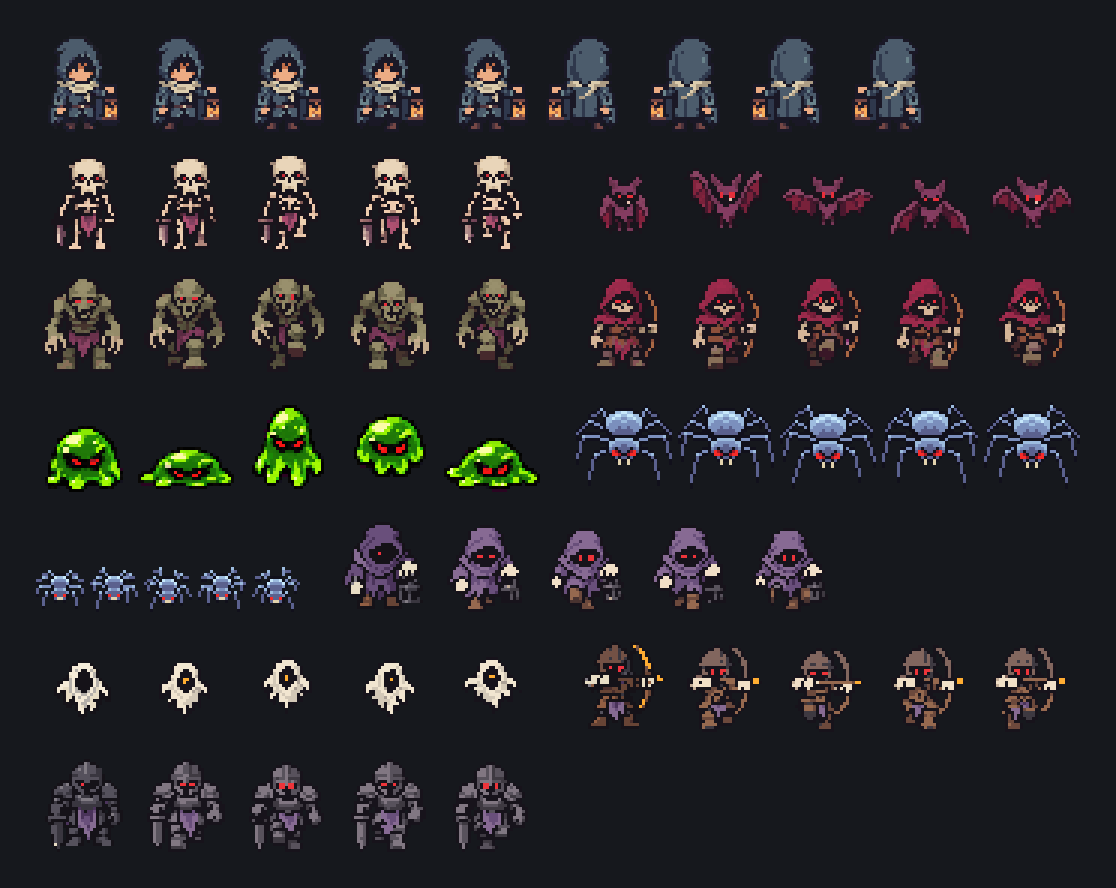
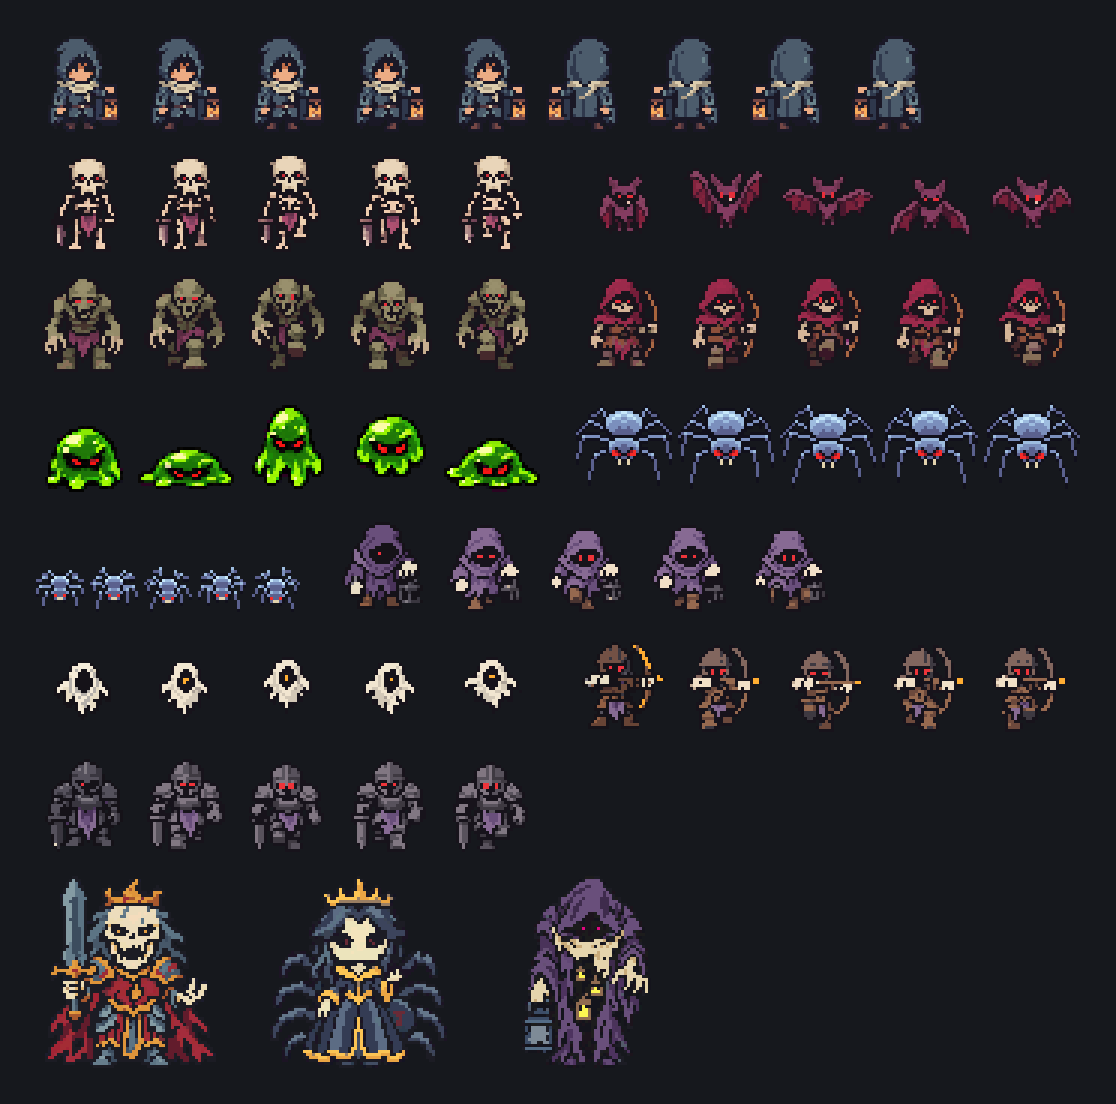
content: 등불지기 정보에 강화 9종·마력·기본 공격 용어 반영, 에셋 칸에 보스·소환수·화면 UI 추가

diff --git a/scripts/make-gallery.py b/scripts/make-gallery.py
@@ -7,10 +7,12 @@
 
 하는 일
   - 그림 폴더(하위 폴더 포함)의 png를 파일 이름 앞머리로 나눠 모음 그림 4장을 만든다.
-      char_·enemy_           → gallery_characters.webp  (캐릭터 움직임)
+      char_·enemy_·boss_     → gallery_characters.webp  (캐릭터 움직임·보스)
       tile_·prop_            → gallery_tiles.webp       (타일·소품, --zones 순서로 한 줄씩)
-      icon_·weapon_·proj_·pickup_ → gallery_items.webp  (아이콘·무기)
+      icon_·weapon_·proj_·obj_·pickup_ → gallery_items.webp  (아이콘·무기·소환수)
       fx_                    → gallery_effects.webp     (효과)
+      ui_                    → gallery_ui.webp          (화면 UI)
+  - 어느 모음에도 들어가지 않은 그림이 있으면 끝에 이름을 알려 준다 (title_ 은 표지라 제외).
       --own 에 적은 이름이 든 tile_·prop_ 는 gallery_<첫 이름>.webp 로 따로 (마을처럼 큰 그림이 많은 곳)
   - 도트가 흐려지지 않게 정수배로만 키운다. 결과는 public/games/<slug>/art/ 에 저장.
   - 게임 JSON(src/data/games/<slug>.json)의 cast 순서가 있으면 적을 그 순서로 놓는다.
@@ -114,17 +116,22 @@ def main():
     if not imgs:
         sys.exit(f"png가 없습니다: {folder}")
 
+    used = set()
+
     def pick(*prefixes):
-        return [n for n in imgs if n.startswith(prefixes)]
+        got = [n for n in imgs if n.startswith(prefixes)]
+        used.update(got)
+        return got
 
     # 1. 캐릭터 움직임 — 주인공, 그다음 적 (게임 JSON cast 순서)
     order = []
     data = root / "src" / "data" / "games" / f"{slug}.json"
     if data.exists():
         order = [FRAME.sub("", Path(c["img"]).stem) for c in json.loads(data.read_text()).get("cast", [])]
-    chars = groups_of(pick("char_", "enemy_"))
+    chars = groups_of(pick("char_", "enemy_", "boss_"))
     keys = sorted(chars, key=lambda k: (order.index(k) if k in order else len(order), k))
-    render(out / "gallery_characters.webp", [[chars[k] for k in keys]], imgs, 3)
+    render(out / "gallery_characters.webp",   # 보스는 마지막 줄에 따로
+           [[chars[k] for k in keys if not k.startswith("boss_")], [chars[k] for k in keys if k.startswith("boss_")]], imgs, 3)
 
     # 2. 타일·소품 — 구역마다 한 줄, 구역 이름이 없는 것은 마지막 줄
     def zone_of(n):
@@ -144,13 +151,21 @@ def main():
     # 3. 아이콘·무기 — 아이콘은 10개씩, 무기·투사체·줍는 물건은 한 줄
     icons = pick("icon_")
     secs = [[icons[i:i + 10]] for i in range(0, len(icons), 10)]
-    secs.append([pick("weapon_"), pick("proj_"), pick("pickup_")])
+    secs.append([pick("weapon_"), pick("proj_"), pick("obj_"), pick("pickup_")])
     render(out / "gallery_items.webp", secs, imgs, 4)
 
     # 4. 효과 — 같은 효과의 프레임끼리 묶고 작은 것부터
     fx = groups_of(pick("fx_"))
     keys = sorted(fx, key=lambda k: (max(imgs[n].width for n in fx[k]), k))
     render(out / "gallery_effects.webp", [[fx[k] for k in keys]], imgs, 2)
+
+    # 5. 화면 UI — 버튼(눌림 포함)·틀·바·조이스틱 등, 이름 순 (누른 모양이 바로 옆에 옴)
+    ui = pick("ui_")
+    render(out / "gallery_ui.webp", [[[n] for n in ui]], imgs, 3)
+
+    left = sorted(n for n in imgs if n not in used and not n.startswith("title_"))
+    if left:
+        print(f"  ⚠ 모음에 안 들어간 그림 {len(left)}장: {' '.join(left)}")
 
 
 if __name__ == "__main__":

diff --git a/README.md b/README.md
@@ -58,7 +58,7 @@ scripts/publish-webgl.sh lanternkeeper ../LanternKeeper --pre-method SpriteLibra
 ```
 ../.venv/bin/python scripts/make-gallery.py lanternkeeper ../LanternKeeper/Assets/Art --zones catacomb,forest,castle --own village,hub
 ```
-게임 그림 폴더의 png를 파일 이름 앞머리(`char_`·`enemy_` / `tile_`·`prop_` / `icon_`·`weapon_`·`proj_`·`pickup_` / `fx_`)로 나눠 `public/games/<slug>/art/gallery_*.webp`를 만들어요. `--own`에 적은 이름(마을)의 타일·소품은 `gallery_village.webp`로 따로 한 장. 게임 JSON의 `gallery`(제목·그림·크기·설명)와 `galleryNote`는 직접 적어요. `gallery`가 없는 게임은 칸이 나오지 않아요. 게임 그림이 바뀌면 다시 실행하고, 출력에 나온 크기가 달라졌으면 `gallery`의 `width`·`height`도 고쳐요.
+게임 그림 폴더의 png를 파일 이름 앞머리(`char_`·`enemy_` / `tile_`·`prop_` / `icon_`·`weapon_`·`proj_`·`obj_`·`pickup_` / `fx_` / `ui_`, 보스 `boss_`)로 나눠 `public/games/<slug>/art/gallery_*.webp`를 만들어요. `--own`에 적은 이름(마을)의 타일·소품은 `gallery_village.webp`로 따로 한 장. `boss_`는 캐릭터 모음 마지막 줄, `obj_`(소환수)는 아이콘·무기 모음, `ui_`는 `gallery_ui.webp`. 어느 모음에도 안 들어간 그림이 있으면 끝에 이름을 알려 줘요(새 앞머리가 생기면 스크립트에 추가). 게임 JSON의 `gallery`(제목·그림·크기·설명)와 `galleryNote`는 직접 적어요. `gallery`가 없는 게임은 칸이 나오지 않아요. 게임 그림이 바뀌면 다시 실행하고, 출력에 나온 크기가 달라졌으면 `gallery`의 `width`·`height`도 고쳐요.
 
 ## 커밋 기록 자동 연동
 
